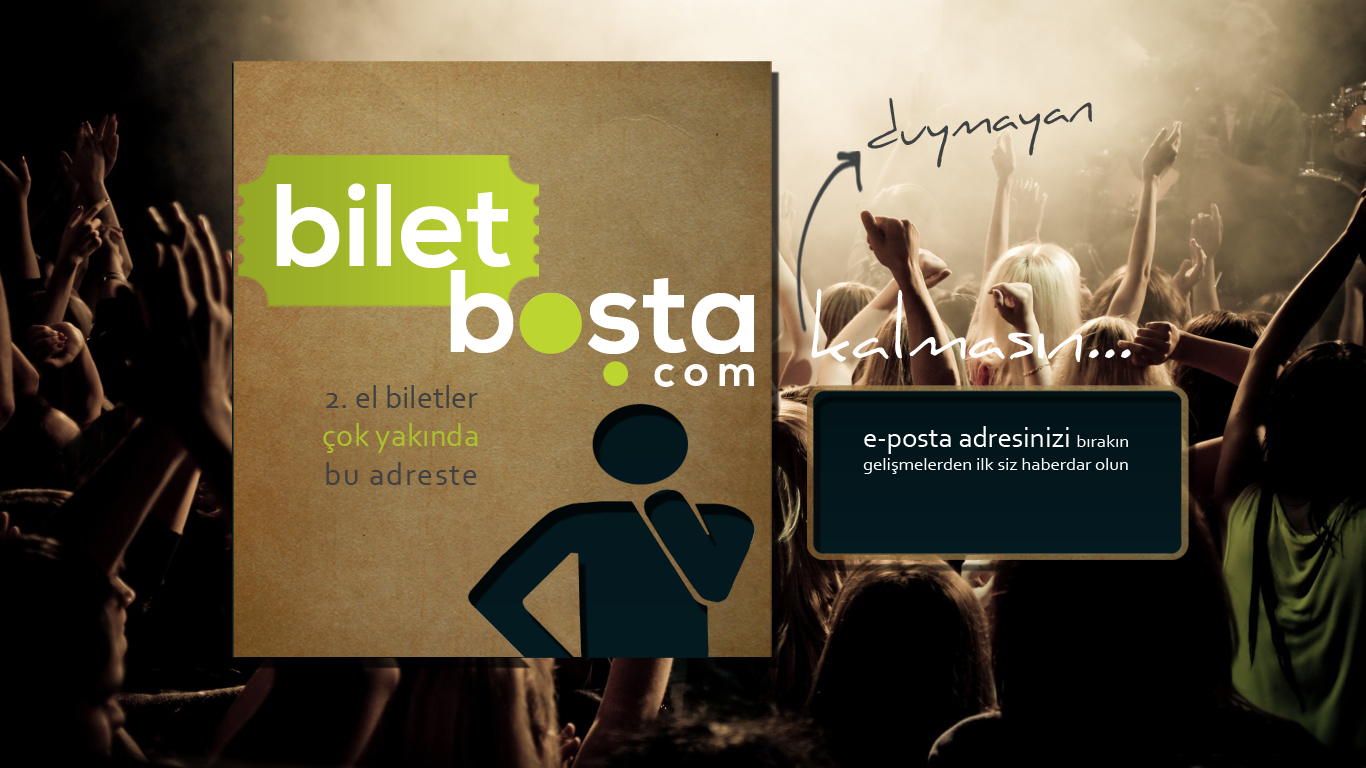
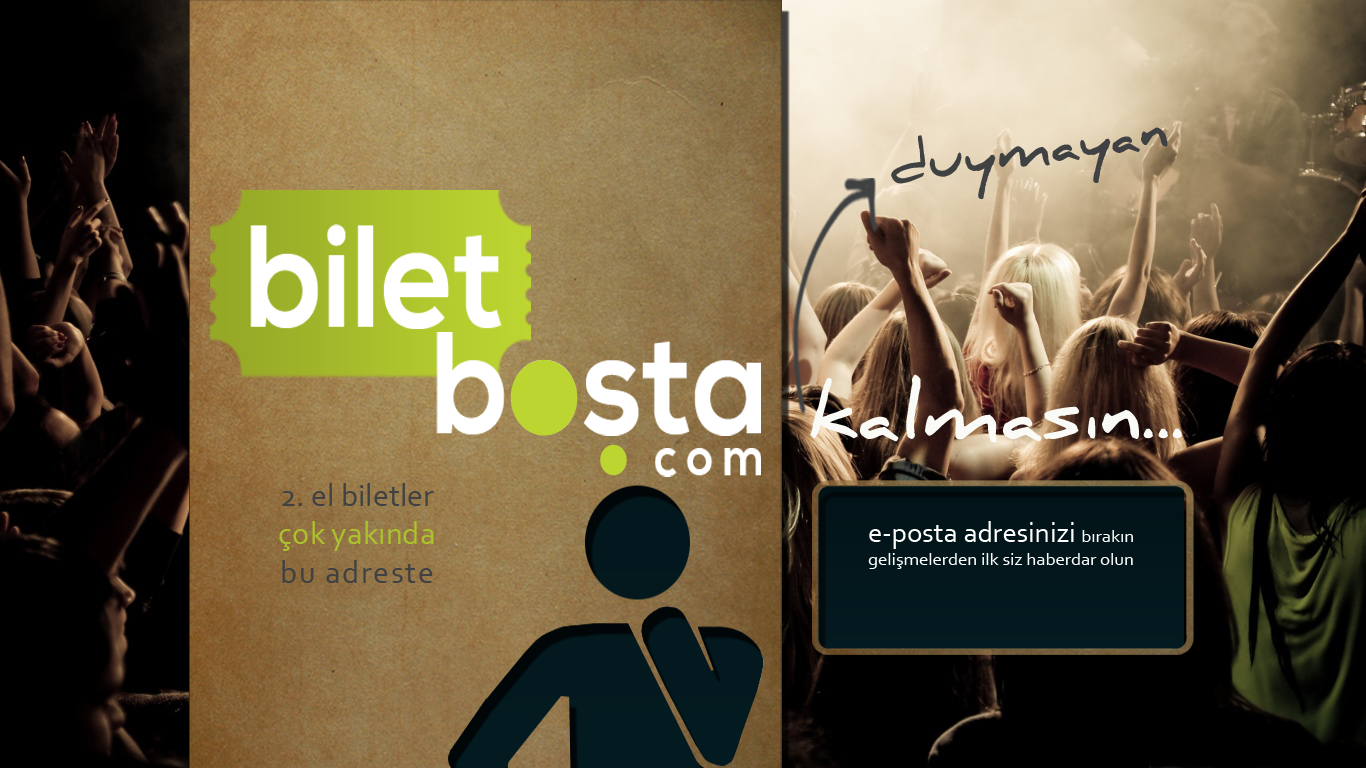
no message

diff --git a/biletbazaar/statictemp/landing_css.css b/biletbazaar/statictemp/landing_css.css
@@ -29,7 +29,7 @@ img{
 .form{
 	position:absolute;
 	left:61%;
-	top:64%;
+	top:77%;
 	z-index:100px;
 	height:6%;
 	width:26%;
